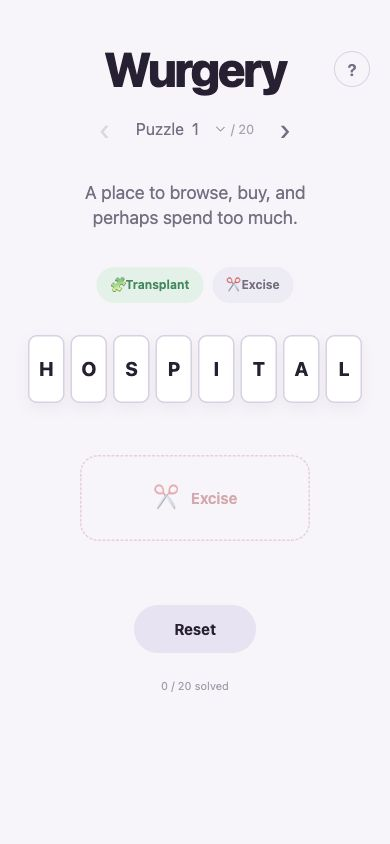
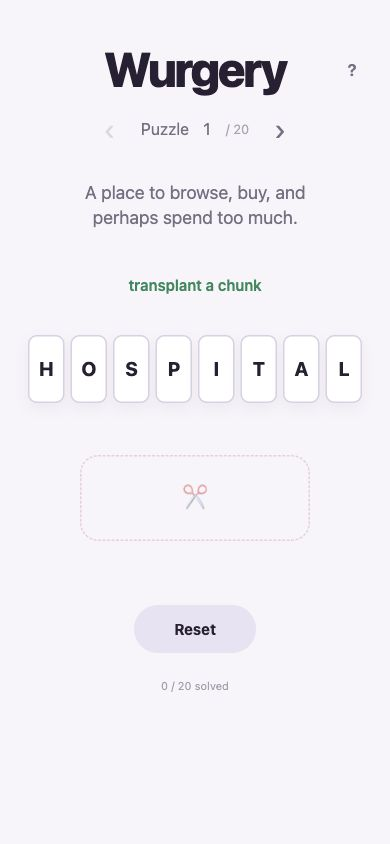
Streamline surgery instructions, deselection, and full reset

diff --git a/game/style.css b/game/style.css
@@ -21,7 +21,7 @@ body {
 button, select { font: inherit; color: inherit; touch-action: manipulation; }
 button { cursor: pointer; }
 button:disabled { cursor: default; }
-button:focus-visible, select:focus-visible { outline: 3px solid #8e80bd; outline-offset: 4px; }
+button:focus-visible { outline: 3px solid #8e80bd; outline-offset: 4px; }
 [hidden] { display: none !important; }
 .sr-only { position: absolute; width: 1px; height: 1px; padding: 0; margin: -1px; overflow: hidden; clip-path: inset(50%); white-space: nowrap; }
 .game {
@@ -36,21 +36,19 @@ button:focus-visible, select:focus-visible { outline: 3px solid #8e80bd; outline
 }
 .header { position: relative; width: 100%; }
 h1 { font-size: 48px; line-height: 1.1; font-weight: 800; letter-spacing: -.045em; margin: 0; }
-.help-button { position: absolute; right: 4px; top: 9px; width: 36px; height: 36px; border: 1px solid var(--border); border-radius: 50%; background: transparent; color: var(--muted); font-size: 17px; font-weight: 600; }
+.help-button { position: absolute; right: 4px; top: 9px; width: 36px; height: 36px; border: 0; background: transparent; color: var(--muted); font-size: 17px; font-weight: 600; }
 .puzzle-nav { display: flex; align-items: center; justify-content: center; gap: 9px; margin-top: 12px; color: var(--muted); }
 .puzzle-nav button { width: 44px; height: 44px; background: transparent; border: 0; padding: 0; font-size: 29px; font-weight: 350; }
 .puzzle-nav button:disabled { opacity: .22; }
 .puzzle-label { display: flex; align-items: center; gap: 4px; font-size: 16px; }
-.puzzle-label select { min-width: 38px; height: 44px; border: 0; background: transparent; font-size: 16px; cursor: pointer; padding: 0; }
+.puzzle-label select { appearance: none; -webkit-appearance: none; outline: none; box-shadow: none; border-radius: 0; text-align: center; min-width: 28px; height: 44px; border: 0; background: transparent; font-size: 16px; cursor: pointer; padding: 0; }
+.puzzle-label select:focus-visible { text-decoration: underline; text-underline-offset: 4px; }
 #puzzle-total { font-size: 13px; opacity: .6; margin-left: 1px; }
 .clue { display: flex; align-items: center; justify-content: center; font-size: 18px; line-height: 1.4; color: var(--muted); width: min(100%, 370px); min-height: 76px; margin: 16px 0 24px; padding: 0 8px; text-wrap: balance; }
 .play-area { width: 100%; }
-.steps { display: flex; justify-content: center; gap: 9px; margin-bottom: 24px; }
-.step { display: inline-flex; align-items: center; justify-content: center; min-height: 36px; padding: 8px 14px; border-radius: 999px; font-size: 12px; font-weight: 650; color: var(--muted); background: #eeebf4; transition: background .18s, color .18s; }
-.step.active { background: var(--green-soft); color: var(--green); }
-.step.done { color: var(--green); background: transparent; }
-.step.done::after { content: '✓'; margin-left: 6px; font-size: 11px; }
-.step.cut-active { background: var(--red-soft); color: var(--red); }
+.instruction { display: flex; align-items: center; justify-content: center; min-height: 36px; margin: 0 0 24px; font-size: 15px; font-weight: 600; }
+.instruction.transplant { color: var(--green); }
+.instruction.excision { color: var(--red); }
 .word-board {
   --count: 11;
   --gap: 6px;
@@ -61,6 +59,7 @@ h1 { font-size: 48px; line-height: 1.1; font-weight: 800; letter-spacing: -.045e
   align-items: center;
   justify-content: center;
   width: 100%;
+  margin-bottom: 44px;
   user-select: none;
   -webkit-user-select: none;
   -webkit-touch-callout: none;
@@ -73,12 +72,6 @@ h1 { font-size: 48px; line-height: 1.1; font-weight: 800; letter-spacing: -.045e
 .phase-excision .letter.selected { background: var(--red-soft); border-color: var(--red); box-shadow: 0 8px 16px #bc4f541c; }
 .phase-solved .letter { border-color: var(--green); box-shadow: 0 4px 14px #23895b18; }
 .gap { position: relative; flex: 0 0 var(--gap); width: var(--gap); height: 84px; padding: 0; border: 0; background: transparent; touch-action: none; }
-.gap.available::after, .gap.drop-here::after { content: ''; position: absolute; top: 13px; bottom: 13px; left: calc(50% - 1px); width: 2px; background: #69b88f; border-radius: 3px; }
-.gap.available::before { content: '·'; position: absolute; top: -5px; left: calc(50% - 3px); font-size: 18px; color: var(--green); }
-.gap.available:hover::after, .gap.drop-here::after { top: 2px; bottom: 2px; background: var(--green); width: 3px; }
-.gap.drop-here::before { content: '↓'; position: absolute; top: -20px; left: calc(50% - 7px); color: var(--green); font-size: 22px; }
-.selection-bar { display: flex; align-items: center; justify-content: center; height: 44px; }
-#clear-selection { height: 40px; background: transparent; border: 0; padding: 0 12px; color: var(--muted); font-size: 12px; }
 .scalpel { display: inline-flex; width: min(230px, 72%); height: 86px; align-items: center; justify-content: center; gap: 12px; border: 1.5px dashed #d9a9ad; border-radius: 18px; background: var(--red-soft); color: var(--red); font-size: 15px; font-weight: 650; transition: transform .15s, background .15s; }
 .scalpel-icon { font-size: 26px; }
 .scalpel.locked { background: transparent; opacity: .48; cursor: default; }
@@ -99,7 +92,6 @@ dialog { width: min(370px, calc(100% - 36px)); padding: 30px 24px 24px; border: 
 dialog::backdrop { background: #27203355; }
 dialog h2 { margin: 12px 0 22px; font-size: 23px; letter-spacing: -.03em; }
 dialog p { line-height: 1.5; font-size: 15px; color: var(--muted); }
-.help-close { position: absolute; top: 9px; right: 12px; height: 40px; width: 40px; background: transparent; border: 0; color: var(--muted); font-size: 28px; }
 .help-small { font-size: 12px; margin-top: 23px; }
 @media (min-width: 700px) {
   .game { padding-top: clamp(52px, 10svh, 110px); }
@@ -120,7 +112,7 @@ dialog p { line-height: 1.5; font-size: 15px; color: var(--muted); }
 @media (max-height: 700px) {
   .game { padding-top: max(22px, env(safe-area-inset-top)); }
   .clue { margin-top: 6px; margin-bottom: 14px; min-height: 66px; }
-  .steps { margin-bottom: 14px; }
+  .instruction { margin-bottom: 14px; }
   .scalpel { height: 72px; }
   .status { margin-top: 10px; min-height: 36px; }
   .progress { margin-top: 20px; }

diff --git a/game/index.html b/game/index.html
@@ -23,32 +23,25 @@
     </nav>
     <p id="clue" class="clue">Loading…</p>
     <section class="play-area" aria-label="Word puzzle">
-      <div class="steps" aria-label="Operation progress">
-        <span id="step-transplant" class="step active">🧩 Transplant</span>
-        <span id="step-excision" class="step">✂ Excise</span>
-      </div>
+      <p id="instruction" class="instruction transplant" aria-live="polite">transplant a chunk</p>
       <div id="word-board" class="word-board" role="group" aria-label="Puzzle letters"></div>
-      <div class="selection-bar">
-        <span id="selection-copy" class="sr-only" aria-live="polite"></span>
-        <button id="clear-selection" type="button" hidden>Clear selection</button>
-      </div>
-      <button id="scalpel" class="scalpel locked" type="button" aria-label="Excise selected letters" aria-disabled="true"><span class="scalpel-icon" aria-hidden="true">✂</span><span>Excise</span></button>
+      <span id="selection-copy" class="sr-only" aria-live="polite"></span>
+      <button id="scalpel" class="scalpel locked" type="button" aria-label="Excise selected letters" aria-disabled="true"><span class="scalpel-icon" aria-hidden="true">✂</span></button>
     </section>
     <div id="status" class="status" role="status" aria-live="polite"></div>
     <div class="actions">
       <button id="reset" class="pill" type="button">Reset</button>
-      <button id="try-cut" class="pill" type="button" hidden>Undo cut</button>
       <button id="next-solved" class="pill primary" type="button" hidden>Next →</button>
     </div>
     <p id="progress" class="progress"></p>
     <noscript>Enable JavaScript to play.</noscript>
   </main>
   <dialog id="help" aria-labelledby="help-title">
-    <button id="help-close" class="help-close" type="button" aria-label="Close help">×</button>
     <h2 id="help-title">A little word surgery.</h2>
     <p><span class="help-green">🧩</span> Highlight a chunk. Drag it somewhere new.</p>
     <p><span class="help-red">✂</span> Highlight again. Drag down to cut.</p>
-    <p class="help-small">Tap the first and last letters to select. You can also tap a green gap to move, or the scalpel to cut.</p>
+    <p class="help-small">Tap the first and last letters to select. Tap off the letters to deselect.</p>
+    <button id="help-close" class="pill" type="button">Done</button>
   </dialog>
   <div id="drag-ghost" class="drag-ghost" aria-hidden="true" hidden></div>
 </body>

diff --git a/README.md b/README.md
@@ -23,14 +23,14 @@ its local HTML, CSS and JavaScript, with no build step or external services.
    and last letter. Drag that highlighted green chunk to a new gap.
 2. The moved letters keep a green underline. Highlight a second chunk and drag
    it onto the red ✂ excision tray. The remaining word must match the clue.
-3. Reset is always available. After an incorrect cut, **Undo cut** keeps
-   the transplant in place. Navigate between all 20 puzzles with the arrows or
-   numbered picker. Solved progress is saved in this browser's local storage.
+3. Tap outside the letters to clear a selection. **Reset** always starts the
+   whole puzzle again, including after a wrong answer. Navigate with the arrows
+   or numbered picker. Solved progress is saved in this browser's local storage.
 
-For an alternative to dragging, click a green insertion gap, then select the
-second chunk and click the scalpel. Keyboard users can select letters with
-Space/Enter, extend with Shift+Left/Right, and Tab to insertion gaps or the
-scalpel. Escape clears the current selection.
+The instruction changes from **transplant a chunk** to **excise a chunk** after
+the move. There are no visible insertion markers or partial resets. Keyboard
+users can select with Space/Enter, extend with Shift+Left/Right, and Tab to
+insertion positions or the scalpel. Escape clears the current selection.
 
 The mobile layout takes visual inspiration from [Flipwords](https://github.com/dixelstuff/flipwords):
 a centered game, lavender background, white tiles and simple pill buttons. The
